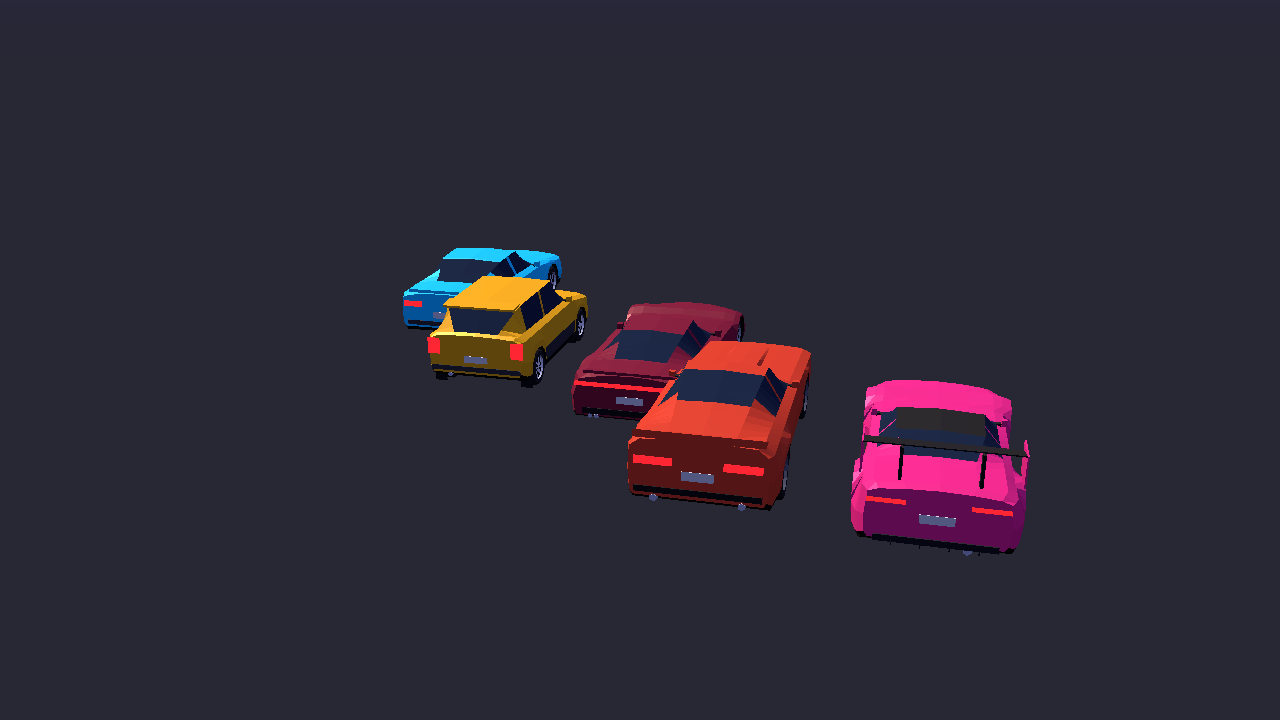
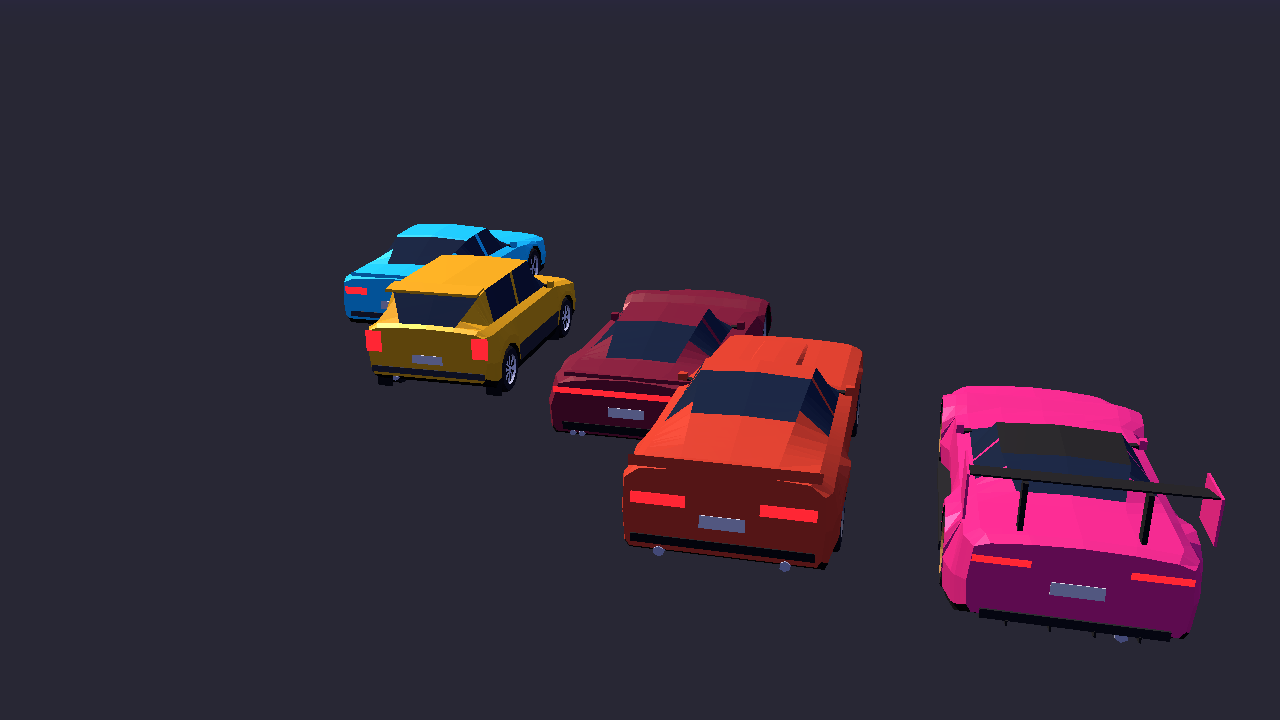
crazygames cars: the lab frames the wing in portrait and the five closer together

Changed region(s): [[0.25, 0.3056, 0.9688, 0.8861]]

diff --git a/crazygames/game/lab/cars.html b/crazygames/game/lab/cars.html
@@ -132,7 +132,7 @@ function placeCamera() {
     for (const id in spots) spots[id].rotation.y = state.yaw;
   } else {
     camera.fov = portrait ? 50 : 36;
-    const d = all ? 18 : (portrait ? 11.5 : 9.5);
+    const d = all ? (portrait ? 24 : 14) : (portrait ? 14.5 : 9.5);
     camera.position.set(d * 0.7, d * 0.36, d * 0.62);
     camera.lookAt(0, 0.5, 0);
     if (all) for (const id in spots) spots[id].rotation.y = state.spin + 0.6;
